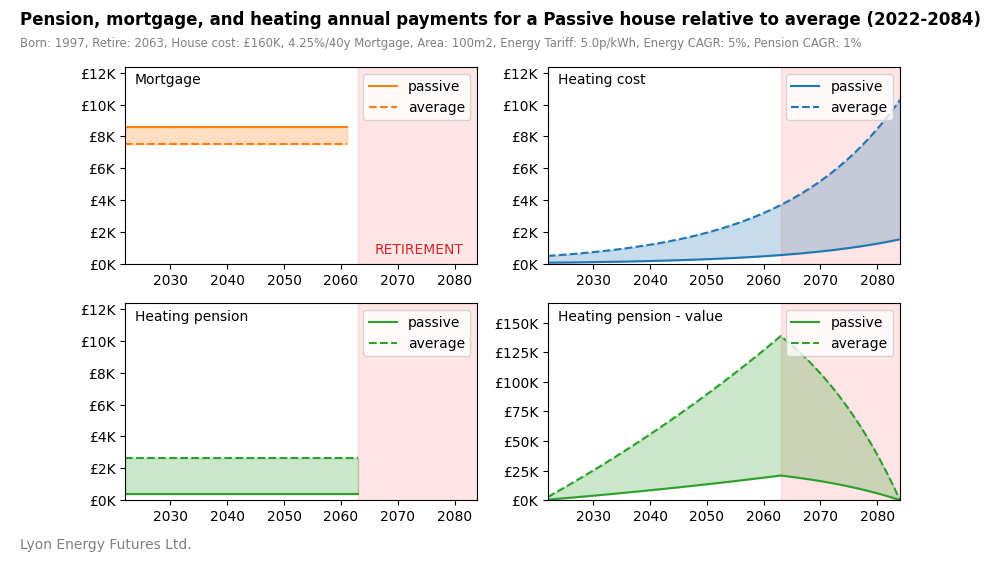
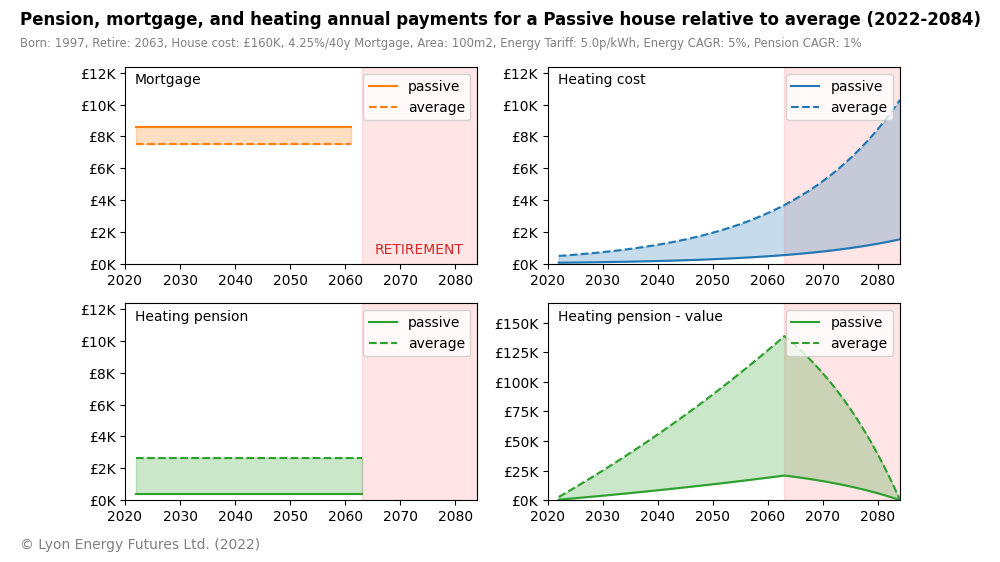
refactor

diff --git a/pension_calculator/plot/plot_payment_schedule_explainer.py b/pension_calculator/plot/plot_payment_schedule_explainer.py
@@ -1,11 +1,14 @@
 """Generates a plot that explains how the mortgage, heating and pension costs are built up."""
 import matplotlib.pyplot as plt
-from matplotlib import patches
-import copy
 
 from pension_calculator import PLOT_DIR
 from pension_calculator.compute.compute_payment_schedule import compute_payment_schedule
-from pension_calculator.plot.helpers import currency
+from pension_calculator.plot.helpers import (
+    annotate_title,
+    compute_lowest_decade,
+    currency,
+    retirement_rectangle,
+)
 from pension_calculator.plot.scenario import (
     HOUSE_PURCHASE_YEAR,
     YOB,
@@ -46,53 +49,27 @@ def main():
         fontsize=12,
         fontweight="bold",
     )
-
-    max_cost = average_df[["mortgage", "heating", "pension"]].max(axis=1).max() * 1.2
-
-    min_year = average_df.index.min()
-    max_year = average_df.index.max()
-
     gs = fig.add_gridspec(2, 2, hspace=0.2, wspace=0.2)
     (ax1, ax2), (ax3, ax4) = gs.subplots()
     axes = [ax1, ax2, ax3, ax4]
 
-    # Create rectangle patches to represent retirement period
-    # We have to copy them because matplotlib won't allow reuse of artists
+    # Set axis limits.
 
-    rect1 = patches.Rectangle(
-        (YOR, 0),
-        YOD - YOR,
-        max_cost,
-        linewidth=1,
-        edgecolor="r",
-        facecolor="r",
-        alpha=0.1,
-    )
-    rect2 = copy.copy(rect1)
-    rect3 = copy.copy(rect2)
-    rect4 = copy.copy(rect3)
+    max_cost = average_df[["mortgage", "heating", "pension"]].max(axis=1).max() * 1.2
+    min_year = compute_lowest_decade(average_df.index.min())
+    max_year = average_df.index.max()
+
+    for ax in axes:
+        ax.yaxis.set_major_formatter(currency)
+        ax.set_ylim([0, max_cost])
+        ax.set_xlim([min_year, max_year])
 
     # Top left: mortgage.
 
-    ax1.yaxis.set_major_formatter(currency)
-    ax1.set_ylim([0, max_cost])
-    ax1.set_xlim([min_year, max_year])
-    ax1.annotate(
-        f"Mortgage",
-        (0, 0),
-        (10, 180),
-        xycoords="axes points",
-        textcoords="offset pixels",
-    )
-    ax1.annotate(
-        f"RETIREMENT",
-        (0, 0),
-        (250, 10),
-        xycoords="axes points",
-        textcoords="offset pixels",
-        color="tab:red",
-    )
-    ax1.add_patch(rect1)
+    annotate_title(ax1, "Mortgage")
+    annotate_title(ax1, "RETIREMENT", x=250, y=10, color="tab:red")
+    ax1.add_patch(retirement_rectangle(YOR, YOD, max_cost))
+
     passive_df["mortgage"].plot(ax=ax1, color="tab:orange", label="passive")
     average_df["mortgage"].plot(
         ax=ax1, color="tab:orange", linestyle="dashed", label="average"
@@ -104,21 +81,12 @@ def main():
         color="tab:orange",
         alpha=0.25,
     )
-    ax1.legend(loc="upper right")
 
     # Top right: heating cost.
 
-    ax2.yaxis.set_major_formatter(currency)
-    ax2.set_ylim([0, max_cost])
-    ax2.set_xlim([min_year, max_year])
-    ax2.annotate(
-        f"Heating cost",
-        (0, 0),
-        (10, 180),
-        xycoords="axes points",
-        textcoords="offset pixels",
-    )
-    ax2.add_patch(rect2)
+    annotate_title(ax2, "Heating cost")
+    ax2.add_patch(retirement_rectangle(YOR, YOD, max_cost))
+
     passive_df["heating"].plot(ax=ax2, color="tab:blue", label="passive")
     average_df["heating"].plot(
         ax=ax2, color="tab:blue", linestyle="dashed", label="average"
@@ -130,21 +98,12 @@ def main():
         color="tab:blue",
         alpha=0.25,
     )
-    ax2.legend(loc="upper right")
 
     # Bottom left: pension cost.
 
-    ax3.yaxis.set_major_formatter(currency)
-    ax3.set_ylim([0, max_cost])
-    ax3.set_xlim([min_year, max_year])
-    ax3.annotate(
-        f"Heating pension",
-        (0, 0),
-        (10, 180),
-        xycoords="axes points",
-        textcoords="offset pixels",
-    )
-    ax3.add_patch(rect3)
+    annotate_title(ax3, "Heating pension")
+    ax3.add_patch(retirement_rectangle(YOR, YOD, max_cost))
+
     passive_df["pension"].plot(ax=ax3, color="tab:green", label="passive")
     average_df["pension"].plot(
         ax=ax3, color="tab:green", linestyle="dashed", label="average"
@@ -156,33 +115,13 @@ def main():
         color="tab:green",
         alpha=0.25,
     )
-    ax3.legend(loc="upper right")
 
     # Bottom right: pension explainer.
 
+    annotate_title(ax4, "Heating pension - value")
     max_cost = average_df[["heating", "pension_value"]].max(axis=1).max() * 1.2
-
-    rect4 = patches.Rectangle(
-        (YOR, 0),
-        YOD - YOR,
-        max_cost,
-        linewidth=1,
-        edgecolor="r",
-        facecolor="r",
-        alpha=0.1,
-    )
-
-    ax4.yaxis.set_major_formatter(currency)
     ax4.set_ylim([0, max_cost])
-    ax4.set_xlim([min_year, max_year])
-    ax4.annotate(
-        f"Heating pension - value",
-        (0, 0),
-        (10, 180),
-        xycoords="axes points",
-        textcoords="offset pixels",
-    )
-    ax4.add_patch(rect4)
+    ax4.add_patch(retirement_rectangle(YOR, YOD, max_cost))
 
     passive_df["pension_value"].plot(ax=ax4, color="tab:green", label="passive")
     average_df["pension_value"].plot(
@@ -196,7 +135,8 @@ def main():
         alpha=0.25,
     )
 
-    ax4.legend(loc="upper right")
+    for ax in axes:
+        ax.legend(loc="upper right")
 
     # Display selected parameters as a subtitle.
 
@@ -221,7 +161,7 @@ def main():
     # Copyright footer.
 
     ax3.annotate(
-        "Lyon Energy Futures Ltd.",
+        "© Lyon Energy Futures Ltd. (2022)",
         (0, 0),
         (20, 25),
         xycoords="figure points",

diff --git a/pension_calculator/plot/helpers.py b/pension_calculator/plot/helpers.py
@@ -1,5 +1,7 @@
 """Helpers for plotting charts."""
+import math
 
+import matplotlib
 import matplotlib.pyplot as plt
 import numpy as np
 import pandas as pd
@@ -181,3 +183,44 @@ def waterfall_chart(
     plt.ylim(0, plot_max + round(3.6 * plot_offset, 7))
     # Rotate the labels
     plt.xticks(range(0, len(trans)), trans.index, rotation=rotation_value)
+
+
+def retirement_rectangle(
+    yor: int, yod: int, max_cost: float
+) -> matplotlib.patches.Rectangle:
+    """Return a rectangle representing the retirement period.
+    Args:
+        yor: Year of retirement
+        yod: Year of death
+        max_cost: Maximum cost
+
+    Returns:
+        A Rectangle patch representing the retirement period.
+
+    """
+    return matplotlib.patches.Rectangle(
+        (yor, 0),
+        yod - yor,
+        max_cost,
+        linewidth=1,
+        edgecolor="r",
+        facecolor="r",
+        alpha=0.1,
+    )
+
+
+def compute_lowest_decade(year: int) -> int:
+    """Return the lowest decade of the given year i.e. 2022 -> 2020."""
+    return math.floor(year / 10) * 10
+
+
+def annotate_title(ax: matplotlib.axis, title: str, x=10, y=180, color="black") -> None:
+    """Return a"""
+    ax.annotate(
+        title,
+        (0, 0),
+        (x, y),
+        color=color,
+        xycoords="axes points",
+        textcoords="offset pixels",
+    )
